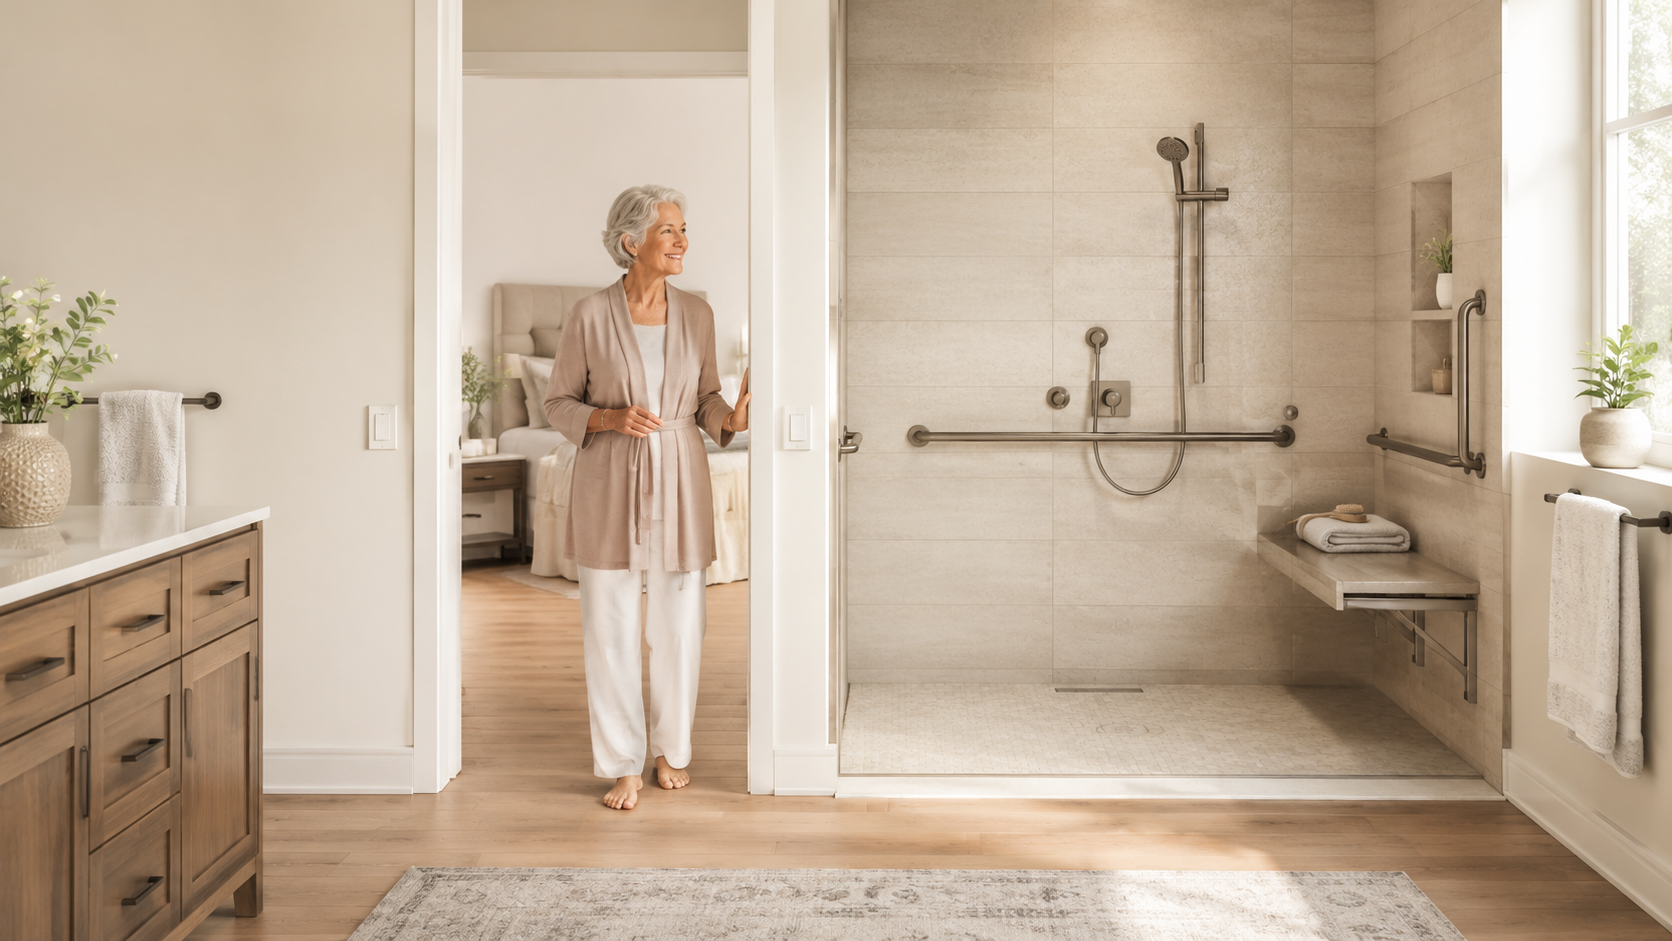
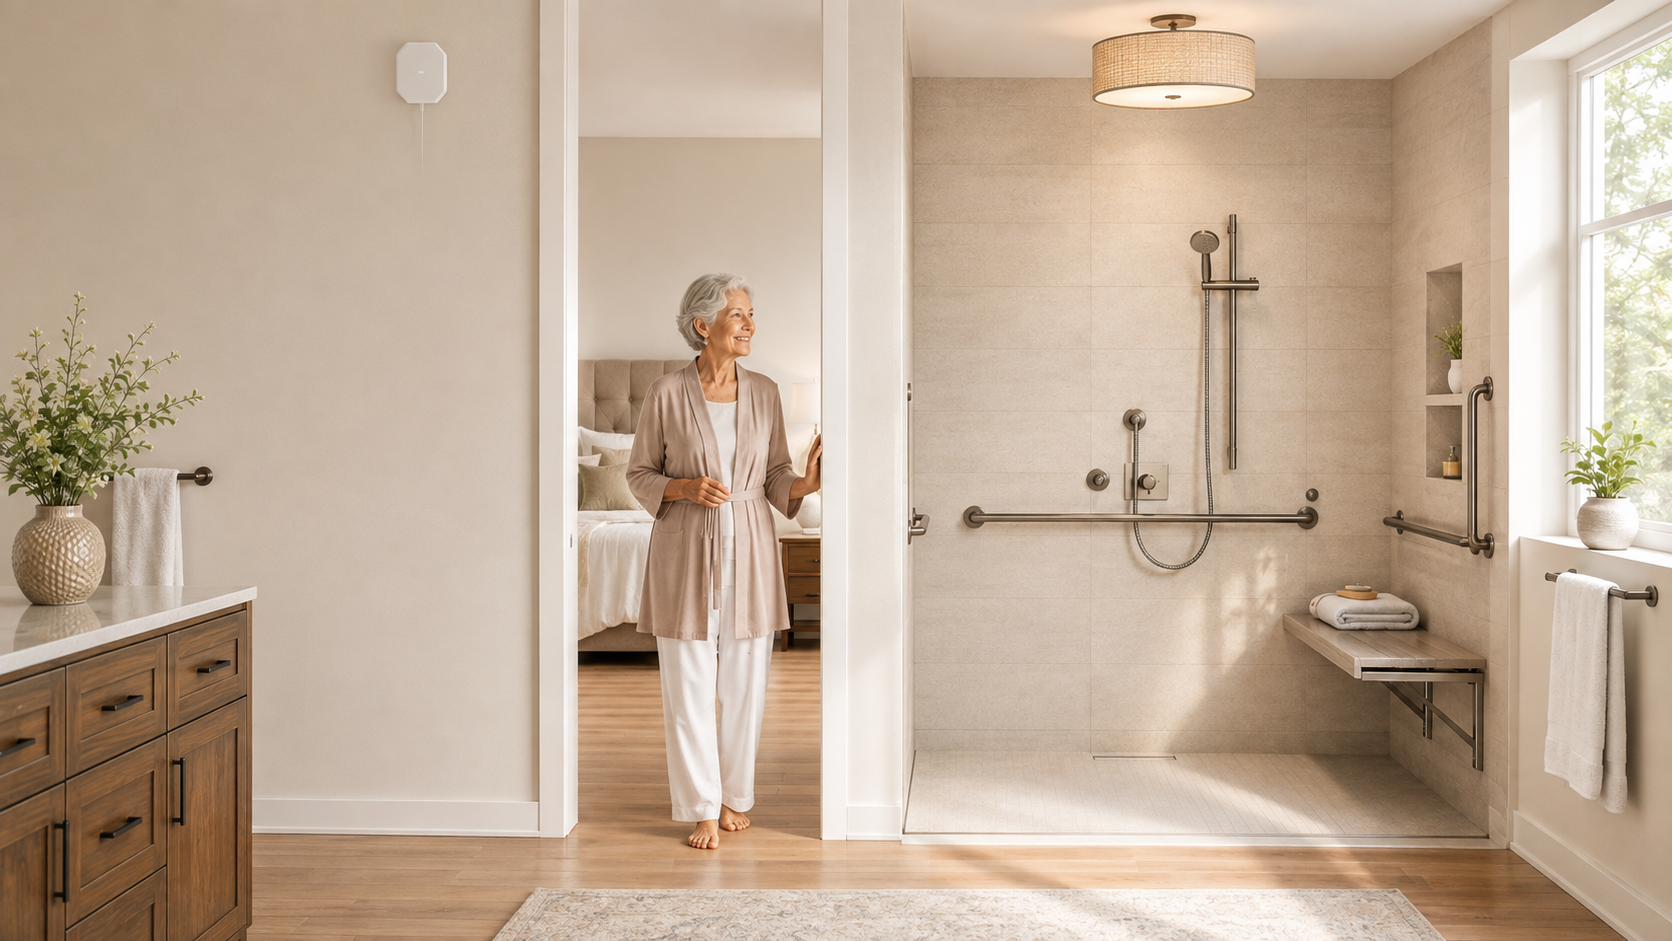
Add files via upload

diff --git a/fall-detection.html b/fall-detection.html
@@ -125,6 +125,16 @@
       border-radius: 16px; padding: 36px 32px; backdrop-filter: blur(12px);
     }
     .hero-stats h3 { color: #8AD6D4; font-size: 0.75rem; font-weight: 600; letter-spacing: 0.1em; text-transform: uppercase; margin-bottom: 24px; }
+
+    /* ── PHOTO BANNER ── */
+    .photo-banner { width: 100%; }
+    .photo-banner-frame { position: relative; overflow: hidden; aspect-ratio: 21/7; }
+    .photo-banner-frame img { width: 100%; height: 100%; object-fit: cover; object-position: center 35%; display: block; }
+    .photo-banner-caption {
+      position: absolute; left: 40px; bottom: 20px; color: #fff;
+      font-size: 0.85rem; font-weight: 500; text-shadow: 0 1px 4px rgba(0,0,0,0.5);
+    }
+    @media (max-width: 700px) { .photo-banner-frame { aspect-ratio: 4/3; } .photo-banner-caption { left: 20px; } }
     .stat-grid { display: grid; grid-template-columns: 1fr 1fr; gap: 24px; }
     .stat-num { font-family: 'DM Serif Display', serif; font-size: 2.4rem; color: var(--white); line-height: 1; }
     .stat-num span { color: var(--orange); }
@@ -447,6 +457,14 @@
     </div>
   </div>
 </section>
+
+<!-- PHOTO BANNER -->
+<div class="photo-banner">
+  <div class="photo-banner-frame">
+    <img src="assets/fall-detection-shower.jpg" alt="Vayyar 4D radar sensor mounted beside an accessible walk-in shower">
+    <div class="photo-banner-caption">Vayyar 4D radar sensor, installed discreetly beside the shower</div>
+  </div>
+</div>
 
 <!-- INTRO STRIP -->
 <div class="intro-strip">

diff --git a/index.html b/index.html
@@ -210,19 +210,7 @@
 
   <div class="option fall">
     <div class="option-banner">
-      <!--
-        Placeholder until a real photo is available — ideally a shot of the
-        Evolve/Vayyar sensor or Nobi smart light installed in a room, or the
-        monitoring center in action. Ask TLS Global for their marketing photos.
-        Swap in: <img src="assets/fall-detection-photo.jpg" alt="..." style="object-fit:cover;">
-      -->
-      <div class="banner-placeholder">
-        <svg viewBox="0 0 24 24" fill="none" stroke="currentColor" stroke-width="1.8">
-          <circle cx="12" cy="12" r="9"/>
-          <path d="M12 7V12L15.5 14.5"/>
-        </svg>
-        <span>Photo placeholder — add an Evolve/TLS photo here</span>
-      </div>
+      <img src="assets/fall-detection-photo.jpg" alt="NOBI ceiling light and Vayyar 4D radar wall sensor installed in a home" style="object-position:center 20%;">
     </div>
     <div class="option-body">
       <div class="tag">24/7 Monitoring · Free Consultation</div>
